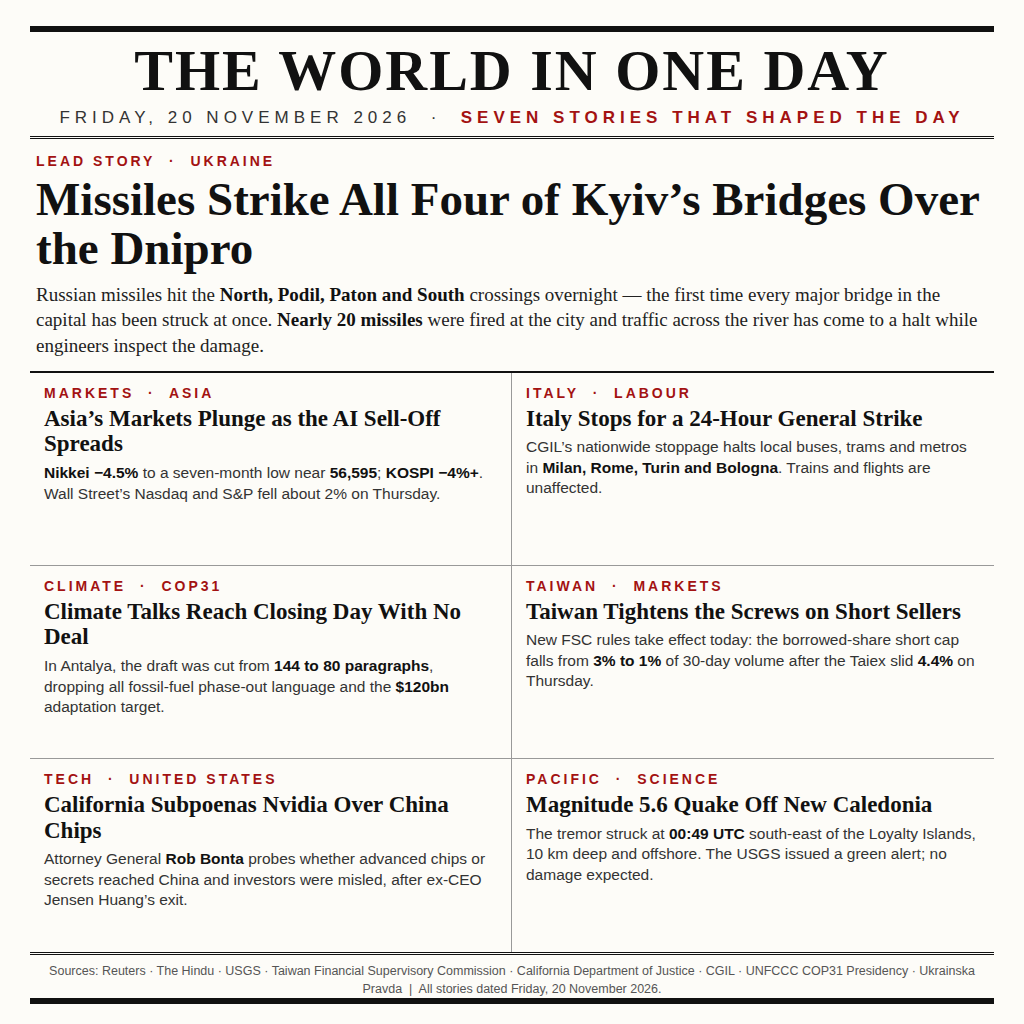
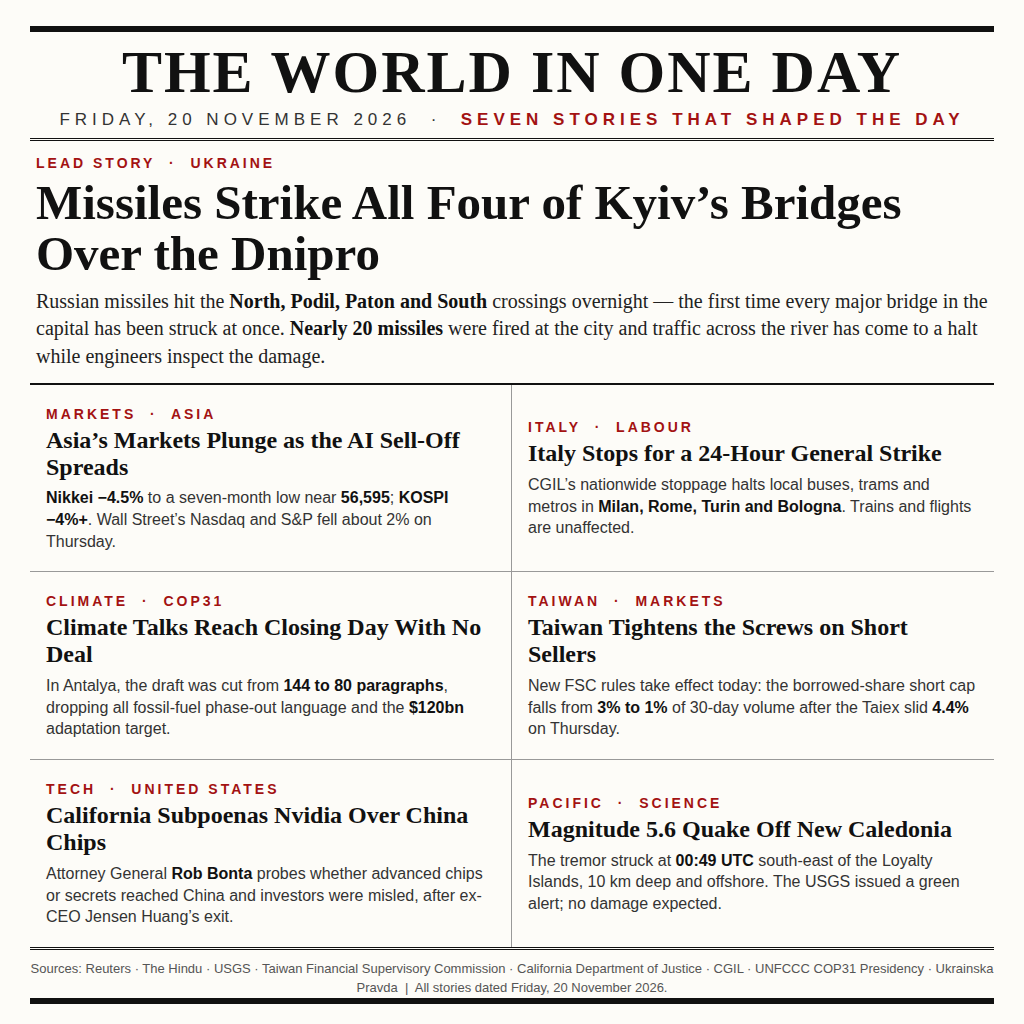
Rebalance layout so the grid fills the 1024x1024 frame
- Vertically center each grid cell's content (flex column +
  justify-content: center) instead of top-aligning it, so the
  empty band that pooled below the last row shrinks
- Slightly larger type throughout (masthead 58->60, lead h1
  47->49, lead body 19->20, cell h2 23->24, cell body 15.5->16,
  footer 12.5->13) and roomier cell padding, so the grid fills
  the frame more fully
- No facts, headlines, or copy changed — layout only

diff --git a/render.html b/render.html
@@ -15,25 +15,25 @@
   .frame { border-top: 6px solid #111; border-bottom: 6px solid #111; height: 100%; display: flex; flex-direction: column; }
   /* Masthead */
   .masthead { text-align: center; padding: 10px 0 8px; border-bottom: 3px double #111; }
-  .masthead .name { font-size: 58px; font-weight: 700; letter-spacing: 2px; line-height: 1; }
+  .masthead .name { font-size: 60px; font-weight: 700; letter-spacing: 2px; line-height: 1; }
   .masthead .dateline { font-family: Arial, Helvetica, sans-serif; font-size: 17px; letter-spacing: 5px; text-transform: uppercase; margin-top: 8px; color: #333; }
   .masthead .dateline b { color: #a31212; }
   /* Lead story */
   .lead { padding: 14px 6px 12px; border-bottom: 2px solid #111; }
   .kicker { font-family: Arial, Helvetica, sans-serif; font-size: 14px; font-weight: 700; letter-spacing: 3px; color: #a31212; text-transform: uppercase; }
-  .lead h1 { font-size: 47px; line-height: 1.05; font-weight: 700; margin: 6px 0 8px; }
-  .lead p { font-size: 19px; line-height: 1.35; color: #222; }
+  .lead h1 { font-size: 49px; line-height: 1.05; font-weight: 700; margin: 6px 0 8px; }
+  .lead p { font-size: 20px; line-height: 1.38; color: #222; }
   .lead p b { color: #111; }
   /* Grid of six */
   .grid { flex: 1; display: grid; grid-template-columns: 1fr 1fr; grid-template-rows: 1fr 1fr 1fr; }
-  .cell { padding: 12px 14px 10px; border-bottom: 1px solid #999; }
+  .cell { padding: 16px 16px 14px; border-bottom: 1px solid #999; display: flex; flex-direction: column; justify-content: center; }
   .cell:nth-child(odd) { border-right: 1px solid #999; }
   .cell:nth-child(5), .cell:nth-child(6) { border-bottom: none; }
-  .cell h2 { font-size: 23px; line-height: 1.12; font-weight: 700; margin: 5px 0 6px; }
-  .cell p { font-family: Arial, Helvetica, sans-serif; font-size: 15.5px; line-height: 1.32; color: #333; }
+  .cell h2 { font-size: 24px; line-height: 1.12; font-weight: 700; margin: 5px 0 7px; }
+  .cell p { font-family: Arial, Helvetica, sans-serif; font-size: 16px; line-height: 1.35; color: #333; }
   .cell p b { color: #111; }
   /* Footer */
-  .footer { border-top: 3px double #111; padding-top: 8px; font-family: Arial, Helvetica, sans-serif; font-size: 12.5px; line-height: 1.4; color: #555; text-align: center; }
+  .footer { border-top: 3px double #111; padding-top: 10px; font-family: Arial, Helvetica, sans-serif; font-size: 13px; line-height: 1.45; color: #555; text-align: center; }
 </style>
 </head>
 <body>
